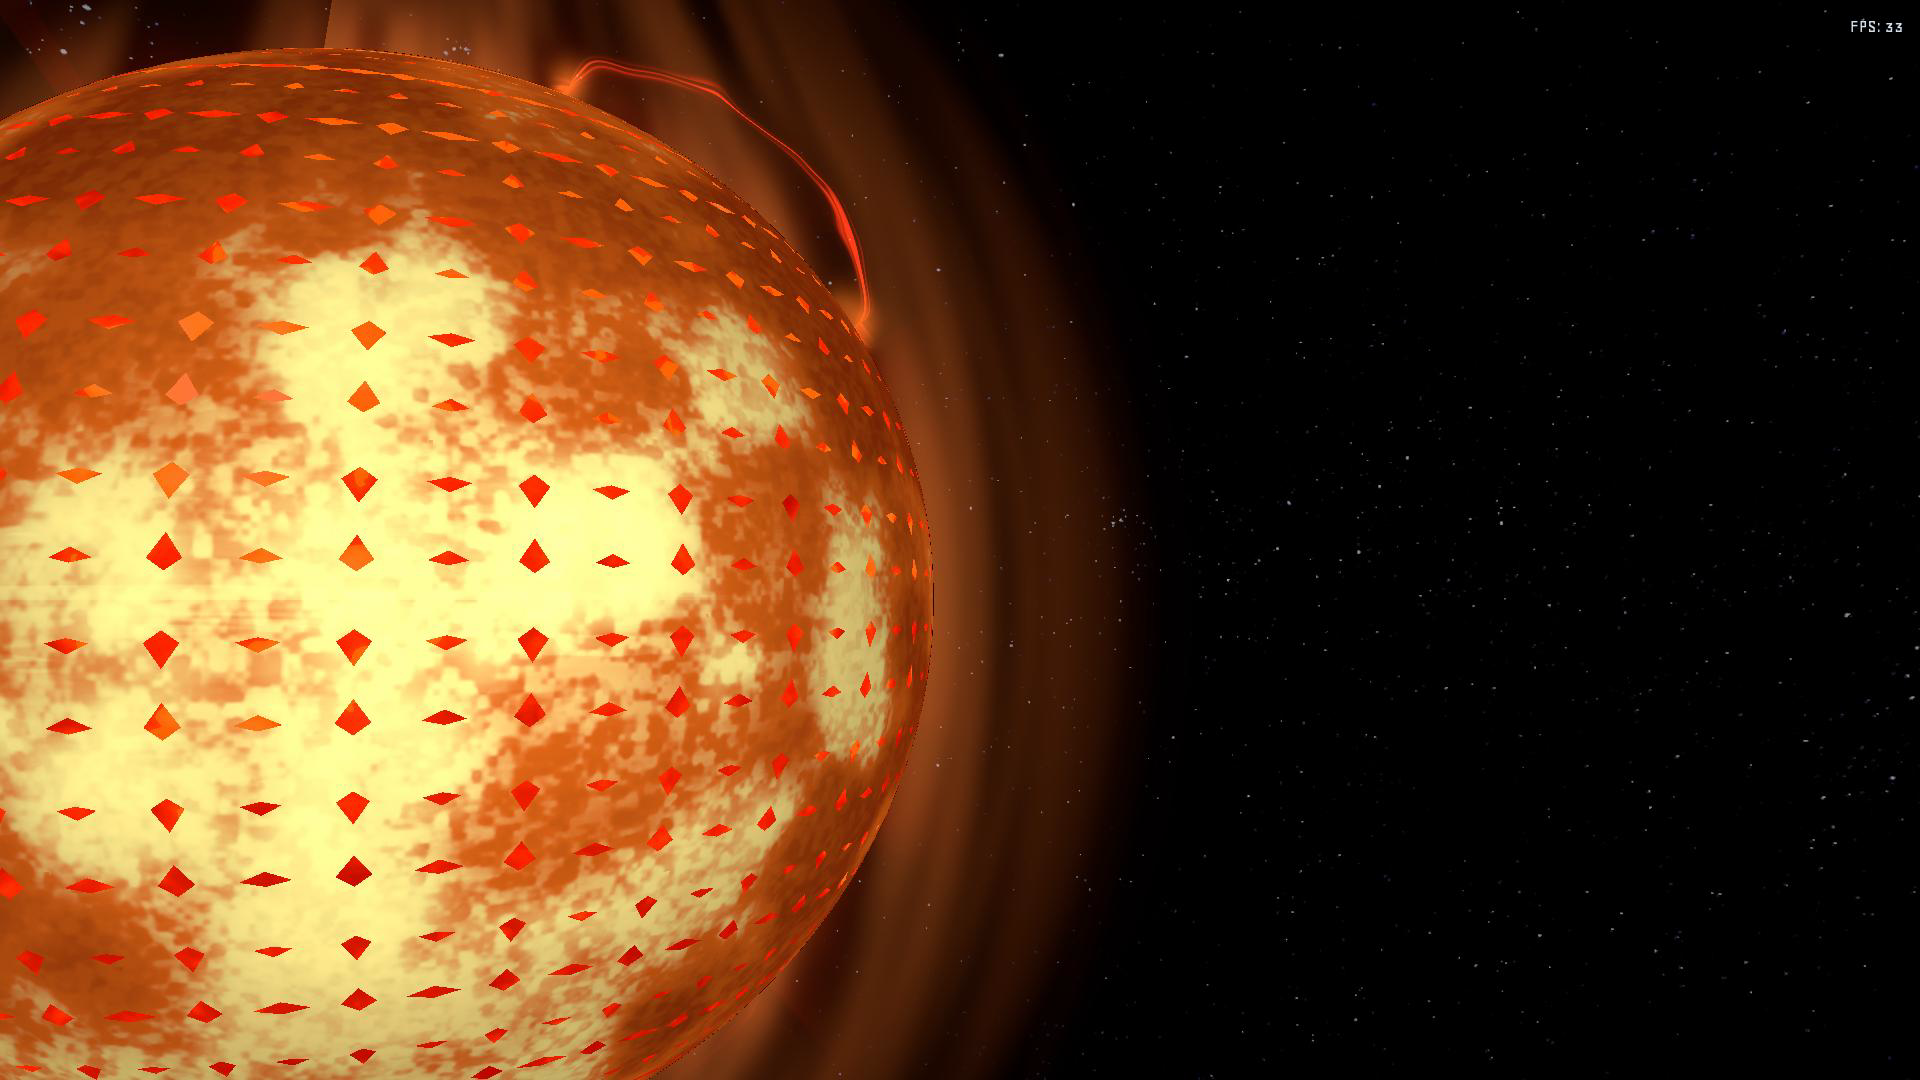
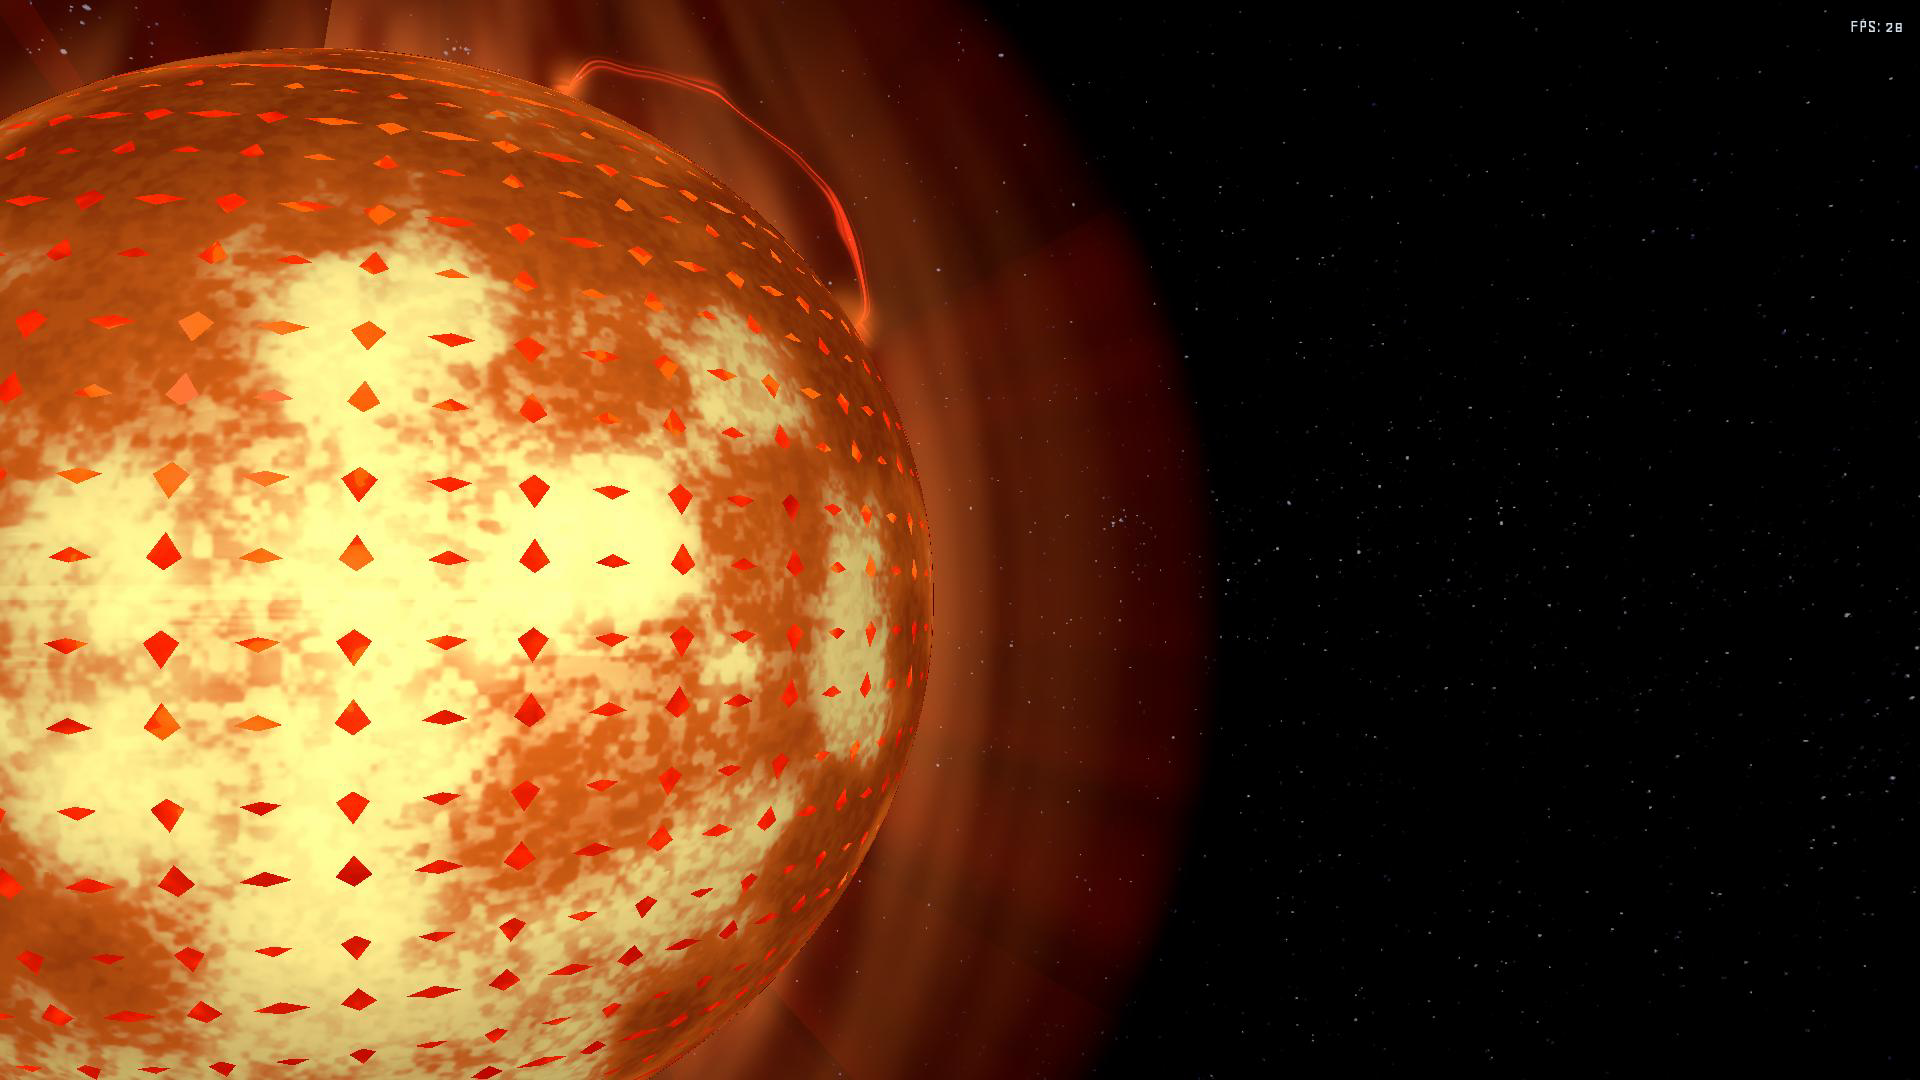
fix: the same monotonic corona tail for the master implementation
The master branch's own red dwarf (the 2k_sun.jpg texture through
battle_red_dwarf.gdshader plus the billboard corona) was rendered with the
same close-up camera and measured.  It does not have the near-black moat -
its surface has no limb darkening and its texture's edge is bright - but its
corona is a tight ring whose tail died within about 0.1 R, so the glow was
disconnected from the surface (the profile went 0.306 -> 0.105 -> 0.122 ->
0.091 -> 0.002, with the tail reaching 0.002 where it now reaches 0.055).

star_corona.gdshader's halo now carries a long, gentle tail on top of the
tight core, so the corona is one profile decaying monotonically from the
limb: 0.323 -> 0.227 -> 0.139 -> 0.154 -> 0.146 -> 0.117 -> 0.074 -> 0.055.

Neither implementation was wired or unwired.

diff --git a/SUN_NOTES.md b/SUN_NOTES.md
@@ -382,10 +382,18 @@ Monotonically non-increasing from the limb outward: no dip, no abrupt ignition.
 
 **The master branch's own implementation was checked with the same camera**
 (`--master` renders the 2k_sun.jpg texture through `battle_red_dwarf.gdshader`
-plus the billboard corona).  Its profile is 0.344 at the limb → 0.205 → 0.126 →
-0.091 → 0.011: monotonic from the limb, so **it does not have the dark band** -
-its corona is simply much tighter and weaker, dying within about 0.1 R.  No
-change was needed there, and neither implementation was wired or unwired.
+plus the billboard corona).  Its profile was 0.306 at the limb -> 0.205 ->
+0.105 -> 0.122 -> 0.091 -> 0.033 -> 0.002: it does **not** have the near-black
+moat, because its surface has no limb darkening and its texture's edge is
+bright, but its corona is a tight ring whose tail died within about 0.1 R, so
+the glow was disconnected from the surface.  The same treatment was applied
+there: `star_corona.gdshader`'s halo now has a long, gentle tail on top of the
+tight core, so the corona is one profile that decays monotonically from the
+limb.  Its profile is now 0.323 -> 0.227 -> 0.139 -> 0.154 -> 0.146 -> 0.117
+-> 0.074 -> 0.055, i.e. the tail reaches 0.055 where it used to be 0.002 and
+the corona is continuous with the surface.  (The small rise from 0.139 to
+0.154 is the corona's own streamer structure, which is intended.)  Neither
+implementation was wired or unwired.
 
 **Artefacts:** `refs/comparison/closeup_fix_before_after.png` (before / after /
 master, same camera), the refreshed `refs/comparison/closeup_frame.png`, and
